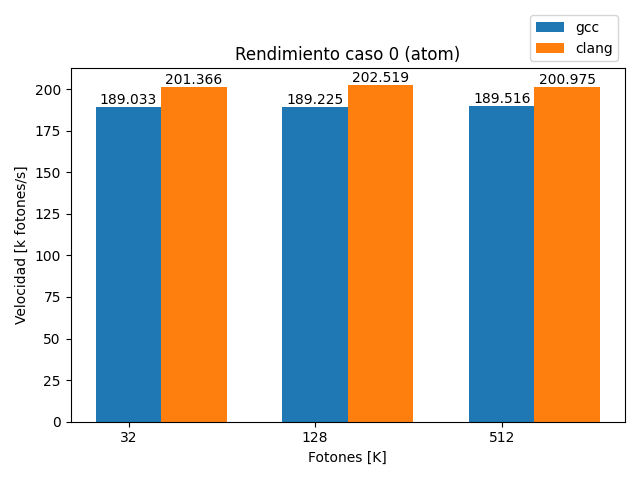
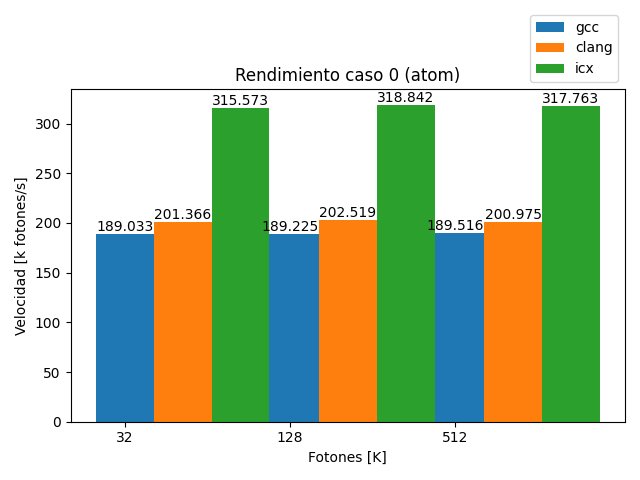
graficos

diff --git a/graficos.py b/graficos.py
@@ -31,9 +31,11 @@ for case in ['0', '1', '2']:
     photons.sort()
     gcc = []
     clang = []
+    icx = []
     for device in devices:
         gcc.append([float(cases[case]['gcc'][device][str(photon)][2]) for photon in photons])
         clang.append([float(cases[case]['clang'][device][str(photon)][2]) for photon in photons])
+        icx.append([float(cases[case]['icx'][device][str(photon)][2]) for photon in photons])
 
     x = np.arange(len(photons))
     width = 0.35
@@ -45,8 +47,11 @@ for case in ['0', '1', '2']:
         offset = width * multiplier
         gcc_rects = ax.bar(x + offset, gcc[i], width, label='gcc')
         clang_rects = ax.bar(x + offset + width, clang[i], width, label='clang')
+        icx_rects = ax.bar(x + offset + 2*width, icx[i], width, label='icx')
+
         ax.bar_label(gcc_rects)
         ax.bar_label(clang_rects)
+        ax.bar_label(icx_rects)
         multiplier += 1
 
         # Add some text for labels, title and custom x-axis tick labels, etc.
